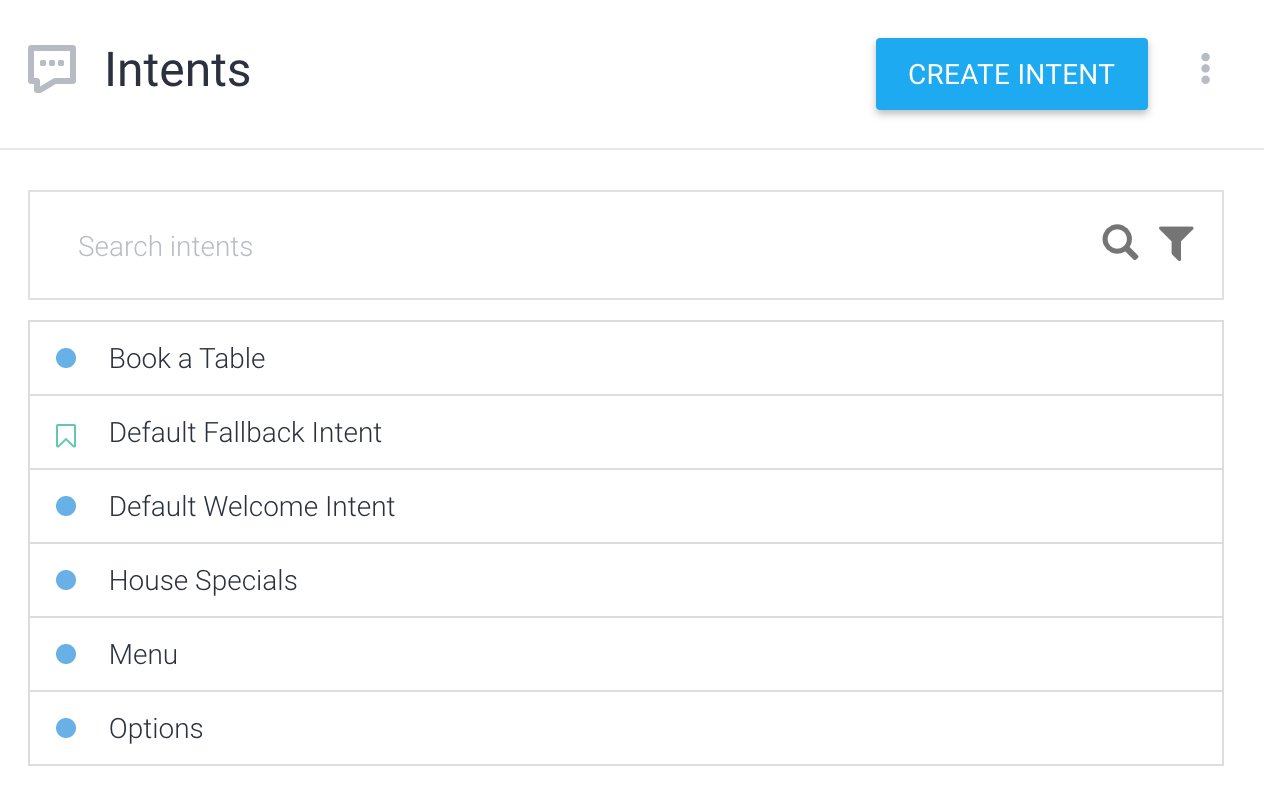
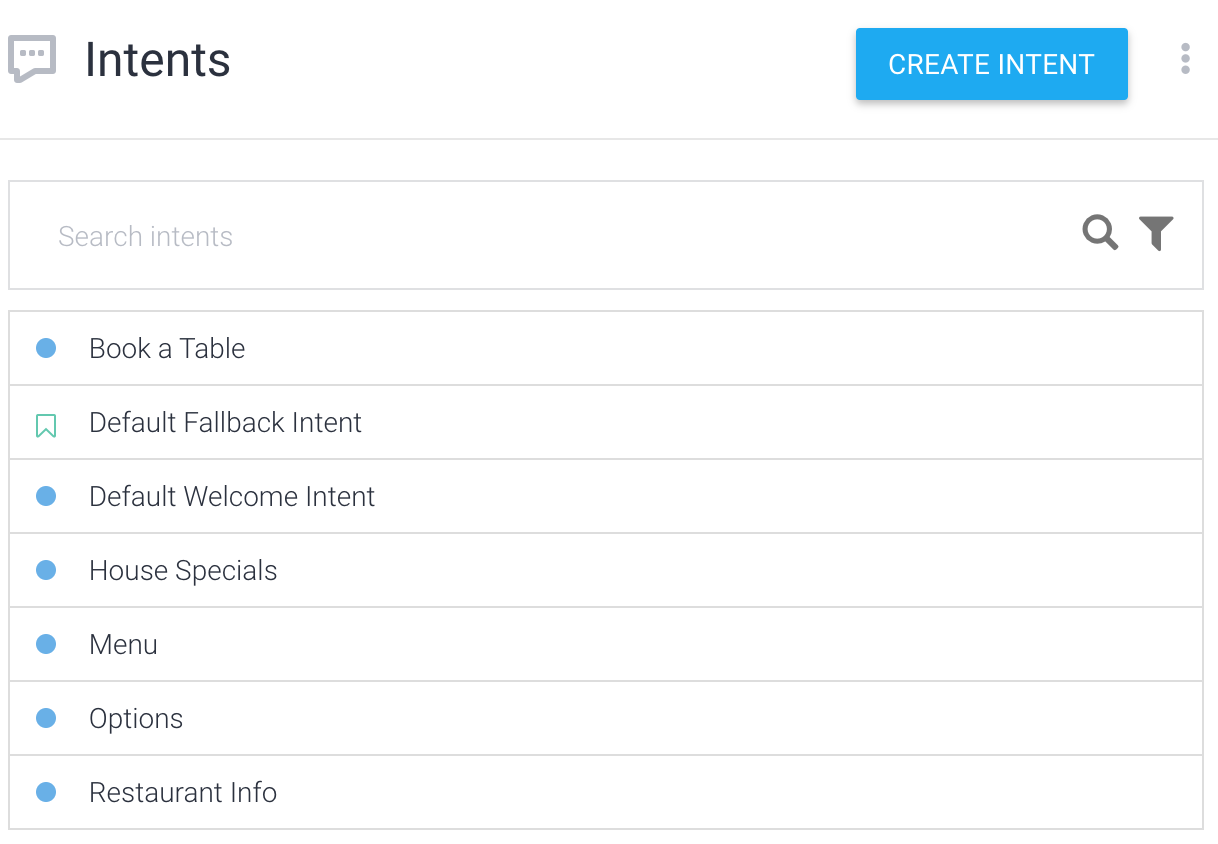
Updated instructions on how to set up intents, actions and parameters.

diff --git a/functions/handlers.js b/functions/handlers.js
@@ -26,7 +26,7 @@ const bookATable = (conv, { guests, date, time }) => {
     conv.ask(
       `Your table was booked for ${guests} persons on ${date} at ${time}.`
     );
-    conv.ask("Would you like to do something else?");
+    conv.ask(" Would you like to do something else?");
     conv.ask(new Suggestions(listOfOptions));
   }
 };
@@ -91,10 +91,8 @@ const menu = conv => {
       }
     })
   );
-  conv.ask("Would you like to do something else?");
-  conv.ask(
-    new Suggestions(listOfOptions);
-  );
+  conv.ask(" Would you like to do something else?");
+  conv.ask(new Suggestions(listOfOptions));
 };
 
 const houseSpecials = conv => {
@@ -138,29 +136,27 @@ const houseSpecials = conv => {
       }
     })
   );
-  conv.ask("Would you like to do something else?");
+  conv.ask(" Would you like to do something else?");
   conv.ask(new Suggestions(listOfOptions));
 };
 
 const restaurantInfo = conv => {
-  conv.ask("We are located on 944 Market st, San Francisco.");
-  //add phone number
+  conv.ask(
+    "We are located on 944 Market st, San Francisco. You can reach us at (123) 456 6524. \n We are open from Monday to Saturday, from 9 am to 5 pm. \n"
+  );
   conv.ask(
     new Image({
-      url:
-        "https://cdn.vox-cdn.com/thumbor/qtrH6pOAoml-LYysFBb8W8lc680=/0x0:960x776/1200x900/filters:focal(404x312:556x464)/cdn.vox-cdn.com/uploads/chorus_image/image/54422771/Taystee_s.0.0.jpg",
-      alt: "Our awesome restaurant is located on 944 Market st, San Francisco"
+      url: "https://i.stack.imgur.com/ddX9U.png",
+      alt: "Our awesome restaurant is located on 944 Market st, San Francisco."
     })
   );
-  conv.ask("Would you like to do something else?");
+  conv.ask(" Would you like to do something else? ");
   conv.ask(new Suggestions(listOfOptions));
 };
 
 const options = conv => {
   conv.ask("Hey there! What would you like to do?");
-  conv.ask(
-    new Suggestions(listOfOptions);
-  );
+  conv.ask(new Suggestions(listOfOptions));
 };
 
 module.exports = {
@@ -169,5 +165,5 @@ module.exports = {
   menu,
   houseSpecials,
   restaurantInfo,
-  options,
+  options
 };

diff --git a/README.md b/README.md
@@ -2,28 +2,33 @@
 
 **Customizable Restaurant Bot using Google's Dialogflow and Firebase functions.**
 
-### Configure Dialogflow<br />
+### Configure Dialogflow <br />
 
 - Go to www.dialogflow.com log in with your GMAIL.
-- create an agent.
-  Create the following intents:
+- Create an agent.
+- Create the following intents:
   ![alt text](https://github.com/ferdelamad/DialogflowFirebaseRestaurantBot/blob/master/imgs/tutorial/Intents.png)
-  <br />
-  Go all the way to the bottom part of an Intent's page and you will see Fulfillment.<br />
-  Click on: "Enable webhook call for this intent".<br />
-  Enable this option on ALL of the intents (don't forget the Default Welcome Intent as well).<br />
-  ![alt text](https://github.com/ferdelamad/DialogflowFirebaseRestaurantBot/blob/master/imgs/tutorial/Fulfillment.png)
-  <br />
-  Always SAVE your changes on the intent's after modifying something.<br />
-  <br />
+- Create training phrases for all of them like this:
+  ![alt text](https://github.com/ferdelamad/DialogflowFirebaseRestaurantBot/blob/master/imgs/tutorial/TrainingP.png)
+- Configure "Actions", "Parameters" and "Prompts" only for the **Book a table intent**:
+  ![alt text](https://github.com/ferdelamad/DialogflowFirebaseRestaurantBot/blob/master/imgs/tutorial/ActionsAndParameters.png)
 
-  ###Configure Firebase<br />
-  <br />
-  Go to https://firebase.google.com/ an you should be login automatically to the same GMAIL account.<br />
-  On the top-right click on "GO TO CONSOLE", an voila your Dialogflow project should be there already.<br />
-  ![alt text](https://github.com/ferdelamad/DialogflowFirebaseRestaurantBot/blob/master/imgs/tutorial/Firebase_project.png)<br />
+<br />
+Go all the way to the bottom part of an Intent's page and you will see Fulfillment.<br />
+Click on: "Enable webhook call for this intent".<br />
+Enable this option on ALL of the intents (don't forget the Default Welcome Intent as well).<br />
+![alt text](https://github.com/ferdelamad/DialogflowFirebaseRestaurantBot/blob/master/imgs/tutorial/Fulfillment.png)
+<br />
+Always SAVE your changes on the intent's after modifying something.<br />
+<br />
 
-  **Do the following:**
+###Configure Firebase<br />
+<br />
+Go to https://firebase.google.com/ an you should be login automatically to the same GMAIL account.<br />
+On the top-right click on "GO TO CONSOLE", an voila your Dialogflow project should be there already.<br />
+![alt text](https://github.com/ferdelamad/DialogflowFirebaseRestaurantBot/blob/master/imgs/tutorial/Firebase_project.png)<br />
+
+**Do the following:**
 
 - Click on your project.
 - On the next page click on "Choose data sharing settings".
@@ -37,12 +42,19 @@
   Watch the following tutorial: https://www.youtube.com/watch?v=DYfP-UIKxH0<br />
   (you will not need to NPM install anything because everything is already in the package.json of the repo).<br />
 
-  On the same functions folder run "firebase deploy" to deploy your functions to handle the intents on the back-end.<br />
+On the same functions folder run "firebase deploy" to deploy your functions to handle the intents on the back-end.<br />
 
-  **Copy the Function URL**
-  ![alt text](https://github.com/ferdelamad/DialogflowFirebaseRestaurantBot/blob/master/imgs/tutorial/FunctionURL.png)
+**Copy the Function URL**
+![alt text](https://github.com/ferdelamad/DialogflowFirebaseRestaurantBot/blob/master/imgs/tutorial/FunctionURL.png)
 
-  Go to your Dialogflow agent page, click on **"Fulfillment"** on the left menu.<br />
-  Then enable Webhook and past the link of the functions.<br />
-  Save the changes.
-  ![alt text](https://github.com/ferdelamad/DialogflowFirebaseRestaurantBot/blob/master/imgs/tutorial/Webhook.png)
+Go to your Dialogflow agent page, click on **"Fulfillment"** on the left menu.<br />
+Then enable Webhook and past the link of the functions.<br />
+Save the changes.
+![alt text](https://github.com/ferdelamad/DialogflowFirebaseRestaurantBot/blob/master/imgs/tutorial/Webhook.png)
+
+**Test your bot with the simulator**
+![alt text](https://github.com/ferdelamad/DialogflowFirebaseRestaurantBot/blob/master/imgs/tutorial/Simulator.png)
+
+You can integrate your bot with Facebook or Slack in the "Integrations" menu of your Dialogflow console.
+
+**Happy hacking!**
